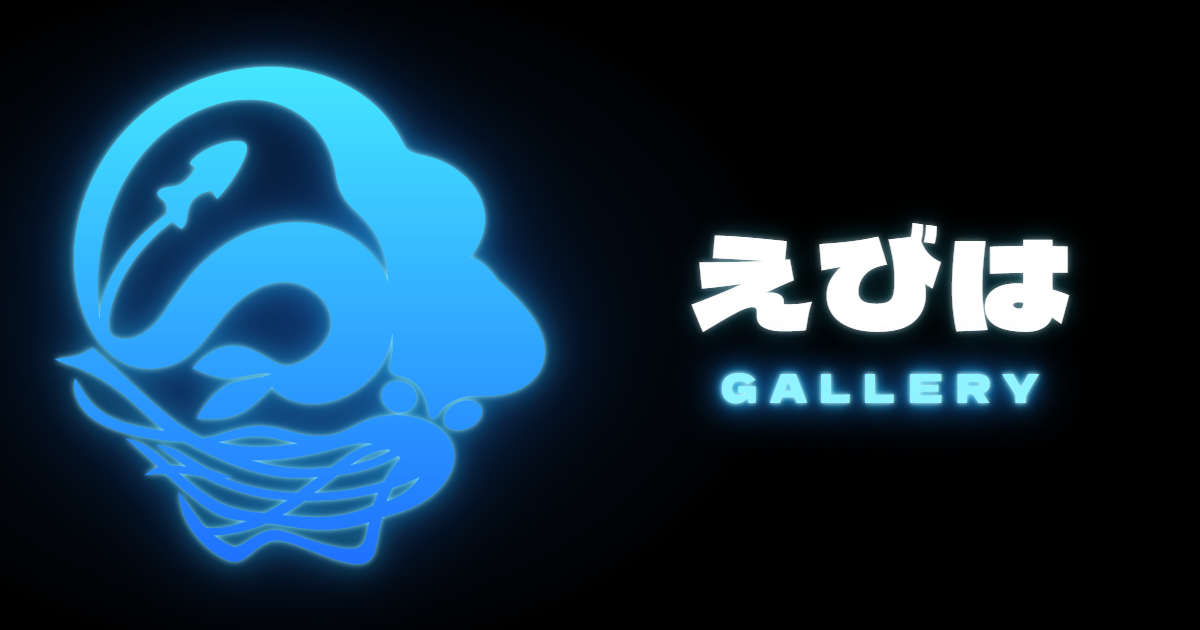
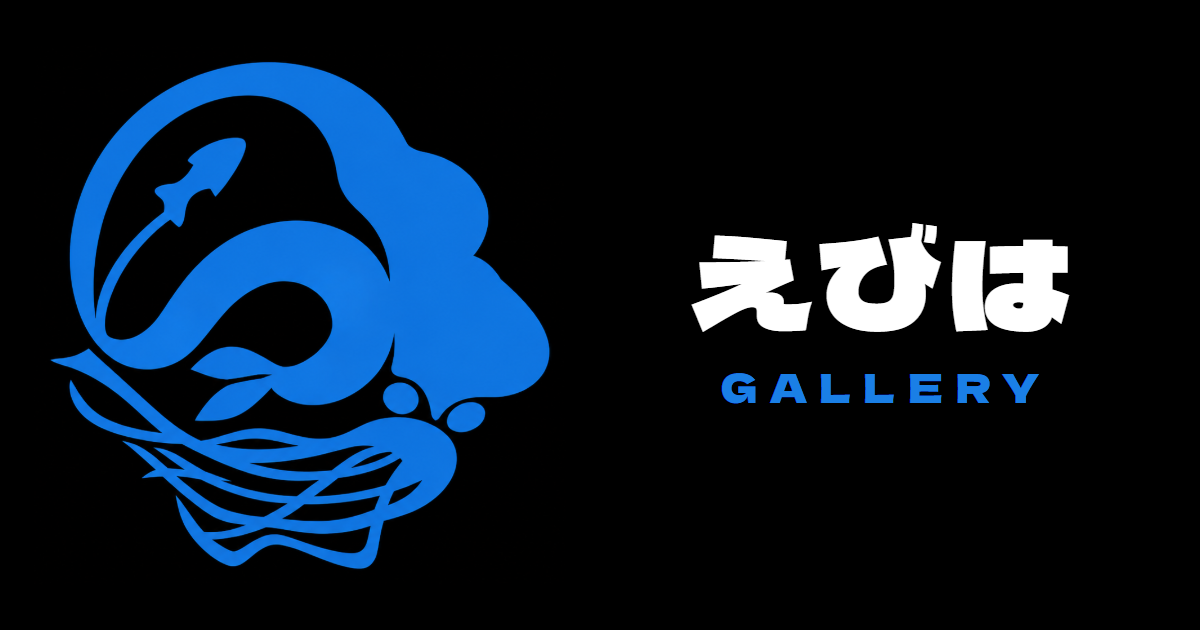
サムネイルをネオン前の画像に戻す、受付の1DRINK札の文字に余白を

diff --git a/js/livehouse.js b/js/livehouse.js
@@ -84,7 +84,7 @@ export async function start() {
   try {
     await Promise.race([
       Promise.all([
-        document.fonts.load(`80px ${FONT_DISPLAY}`, 'えびはLIVEHOUSEBARMENU受付RECEPTIONCOMINGSOONダイブ食堂作品一覧ENTRANCE今後なにかが始まりますおたのしみに水槽→STAGEFLOOR0123456789'),
+        document.fonts.load(`80px ${FONT_DISPLAY}`, 'えびはLIVEHOUSEBARMENU受付RECEPTIONCOMINGSOONダイブ食堂作品一覧ENTRANCE今後なにかが始まりますおたのしみに水槽→STAGEFLOOR0123456789DRINKTICKETFREEGALLERYEBI'),
         document.fonts.load(`700 40px ${FONT_BODY}`, 'えびダイブ食堂作品一覧水槽をのぞくとゲームの世界へ本日のおすすめランキング料理ドリンクビールレモンサワー受付はこちら'),
       ]),
       new Promise(r => setTimeout(r, 2500)),
@@ -721,12 +721,15 @@ class World {
     // お金を置くトレイ
     this.cyl(0.15, 0.12, 0.025, this.mat('#2a2a30'), 0.62, 1.145, 0.2, g, 18);
     // 料金は「えびマーク」の架空の単位で（本物のお金っぽく見せない）
-    const ticketTex = canvasTex(256, 180, (c, w, h) => {
+    const ticketTex = canvasTex(512, 360, (c, w, h) => {
       c.fillStyle = '#f5f1e8'; c.fillRect(0, 0, w, h);
-      c.fillStyle = '#7a2f24'; c.textAlign = 'center'; c.textBaseline = 'middle';
-      c.font = `52px ${FONT_DISPLAY}`; c.fillText('1 DRINK', w / 2, 52);
-      c.save(); c.translate(34, 100); c.scale(2.5, 2.5); drawShrimpMark(c, '#e2502c'); c.restore();
-      c.textAlign = 'left'; c.fillText('700', 104, 128);
+      c.fillStyle = '#7a2f24'; c.textBaseline = 'middle';
+      // 上下左右に余白をとって、2行とも中央にそろえる
+      c.textAlign = 'center'; c.font = `68px ${FONT_DISPLAY}`; c.fillText('1 DRINK', w / 2, 122);
+      c.font = `78px ${FONT_DISPLAY}`;
+      const mw = 27 * 3, gap = 14, tw = c.measureText('700').width, x0 = (w - (mw + gap + tw)) / 2;
+      c.save(); c.translate(x0, 214); c.scale(3, 3); drawShrimpMark(c, '#e2502c'); c.restore();
+      c.textAlign = 'left'; c.fillText('700', x0 + mw + gap, 248);
     });
     const ticket = new THREE.Mesh(new THREE.PlaneGeometry(0.44, 0.31), M({ map: ticketTex, emissive: '#ffffff', emissiveMap: ticketTex, emissiveIntensity: 0.18 }));
     ticket.position.set(0.1, 1.32, -0.12); ticket.rotation.x = -0.25;

diff --git a/index.html b/index.html
@@ -400,7 +400,7 @@
 
 <script type="module">
   // js/livehouse.js はブラウザに4時間キャッシュされるので、更新したら必ずこの番号を変える
-  const ASSET_VERSION = '2026100220';
+  const ASSET_VERSION = '2026100223';
   // ?flat をつけると3Dなしのふつうのページで見られる
   const flat = new URLSearchParams(location.search).has('flat');
   const canWebGL = (() => { try { const c = document.createElement('canvas'); return !!(c.getContext('webgl2') || c.getContext('webgl')); } catch (e) { return false; } })();
